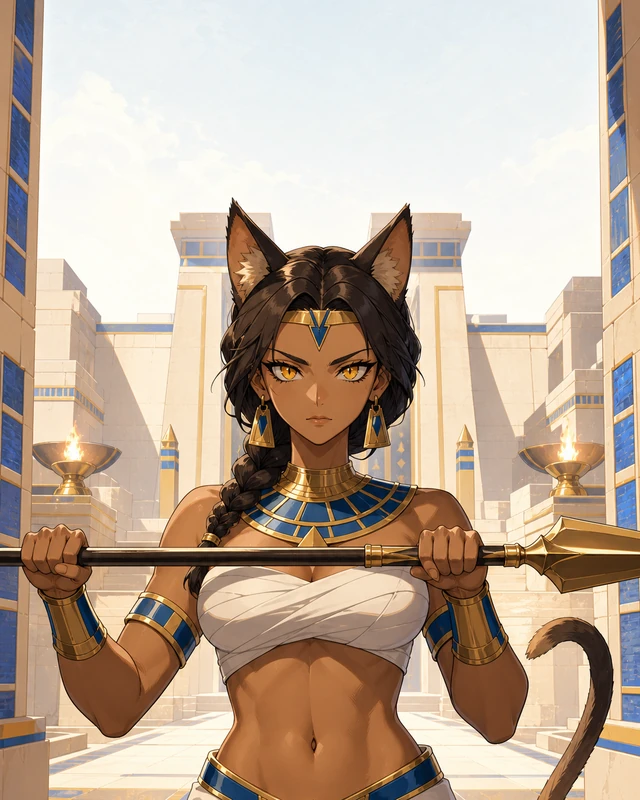
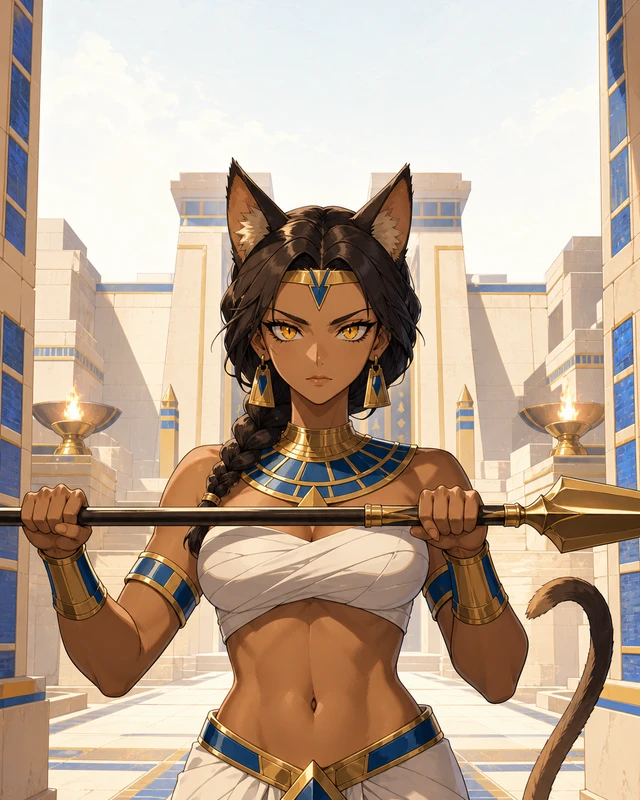
art(docs): rules 30-34 from the round-1 re-verify (background guard, open-flame keys, round motes, chin-height props, top-fifth headroom) + Lion-Gate Sentry crop slide

diff --git a/docs/plan-duat-art.md b/docs/plan-duat-art.md
@@ -202,6 +202,16 @@ owner decision below explicitly narrows the scope:
 - **Bastet Kit tokens:** draw a living kit: `a small cat creature with its own faint gold glow`, never an empty collar on a ledge. Collars proved unreadable at 119x86; the scarab-as-creature token read perfectly.
 - **Value floor phrasing:** replace the resin-brown hex clause in prompts with `one large warm surface brighter than 70 percent luminance inside the central band`.
 - **Scale rule:** `Giant`, `Behemoth`, and `colossal` do nothing alone; monumental scale requires an explicit in-frame comparison object, such as `her shoulder level with the temple lintel`.
+### Round-2 additions (learned from the 2026-08-21 re-verify: 88 of 115 fixed, every diagnosed defect cleared, 27 NEW defects introduced by the repaint)
+
+30. **BACKGROUNDS NEED THEIR OWN GUARD.** Four of five regressions in one slice were the environment, not the subject: modern glass skylines on a far bank (twice), a domed building with a cross finial, glyph-register friezes. **Fix phrasing:** every prompt with a visible horizon or far bank states positively what is there (`the far bank carries only reed beds, flat-roofed sandstone pylons and mastabas, and plain low stone markers`) and adds `no modern buildings, no towers, no skyline, no glass facades, no domes, no crosses`; distant friezes are `plain flat horizontal banding with no repeating marks`.
+31. **PRACTICAL KEYS ARE OPEN FLAMES.** "Lamp" and "lantern" rendered as a Victorian glazed park lantern, a modern shaded table lamp, and a carriage lamp. **Fix phrasing:** `an open flame in a plain pottery or bronze bowl` / `a low bronze brazier`; negatives `no shaded lamps, no glazed lanterns, no park lamps, no table lamps, no lamp chimneys`.
+32. **SPARKLES ARE ROUND MOTES.** Smoke and magic "sparkles" rendered as thick-armed cross shapes (banned motif). **Fix phrasing:** `round gold motes only`; negatives `no cross-shaped sparkles, no plus-shaped or four-armed glints, no crosses of any kind`.
+33. **HERO PROPS SIT AT CHIN HEIGHT, NOT CHEST.** Chest-height props still landed across the y633 line on five cards (seed bowl, waterclock, writing board, chart, gate door). **Fix phrasing:** `held up at chin height directly beneath her face, the entire object inside the central band with the figure's belt line visible below it`; name the prop as the SECOND read after the face.
+34. **HEADROOM IS STATED AS A FRACTION.** Heads still grazed or clipped y167 on six cards despite the middle-band clause. **Fix phrasing:** add `the top fifth of the frame is empty air above her hair` after the head clause (the Wave B round-5 wording), and for figure-free spells keep every object below the top fifth.
+
+Process rule from the same re-verify: **authored prompts are spliced from per-agent scratch files by heading** (never concurrent edits of one doc), and an agent that rewrites its output after the splice must trigger a re-splice plus a forced repaint of any id painted under the stale prompt.
+
 ## 3. Batch order (interleaved with the card-data waves)
 
 1. **Wave A — the 19 already-briefed pieces** the moment their ids lock:
